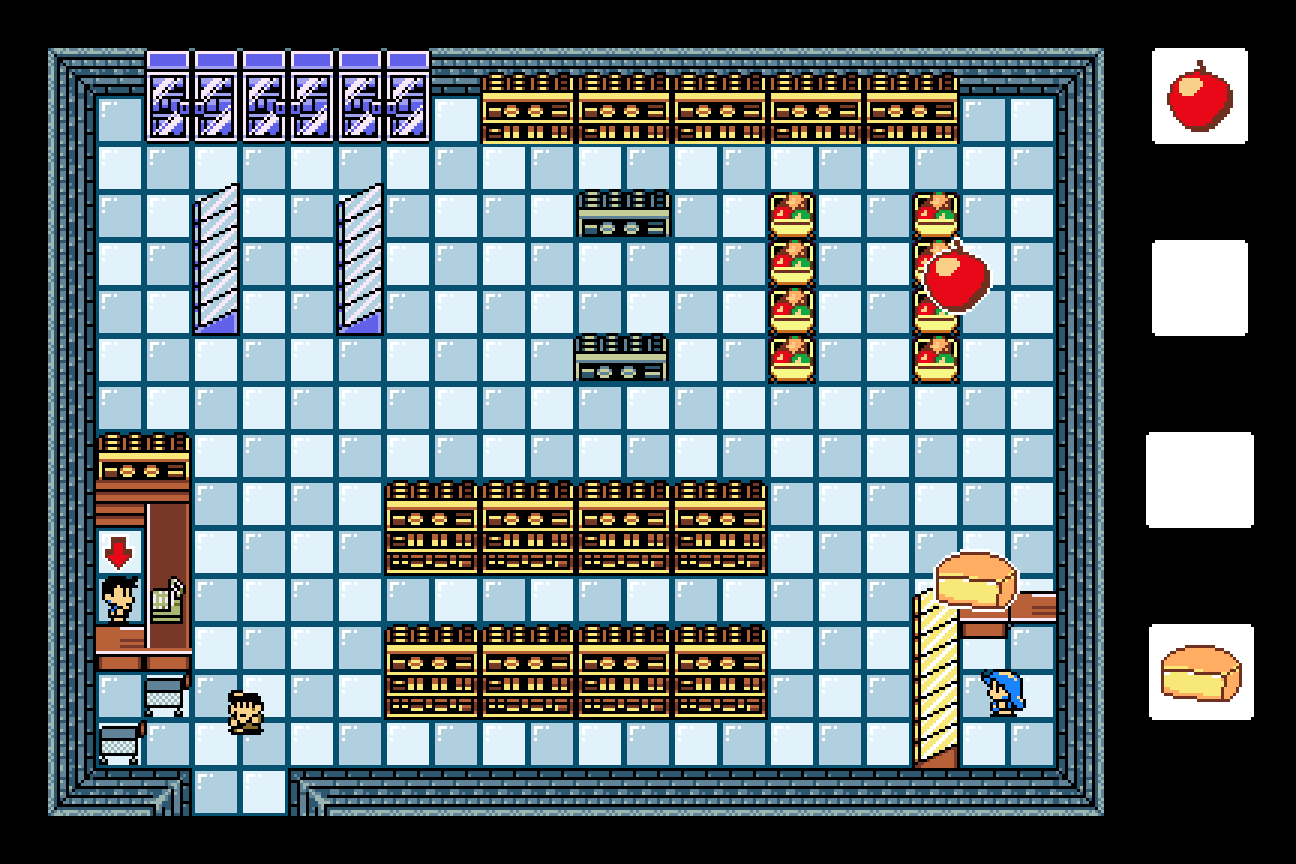
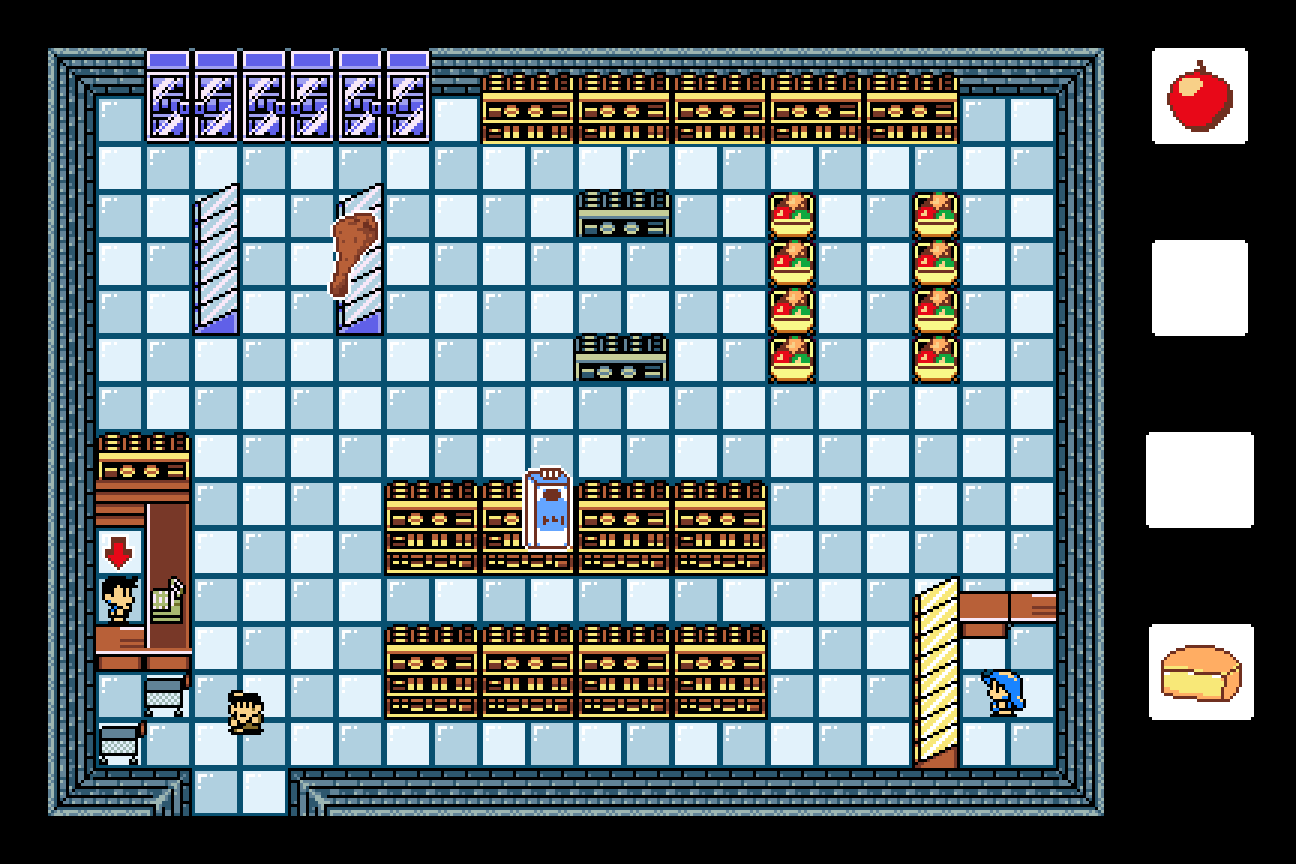
2producten

diff --git a/de game/code/producten2/2melkenvlees.html b/de game/code/producten2/2melkenvlees.html
@@ -1,0 +1,20 @@
+<!DOCTYPE html>
+<html>
+
+<head>
+
+</head>
+
+<body>
+
+<center> <img class ="center" src=../../mappen/producten2/2melkenvlees.png width="1296" height="864" alt="soepblik" usemap="#winkelbegin"> </center>
+
+<map name="winkelbegin">
+  <area shape="rect" coords="902,232,996,324" alt="appel" href="../../mappen/producten3/3appelenmelkenvlees.png">
+  <area shape="rect" coords="928,542,1024,614" alt="brood" href="../../mappen/producten3/3melkenenvleesenbrood.png">
+  <area shape="rect" coords="88,522,184,652" alt="kassa" href="../../mappen/algemeen/winkelbegin.png">
+</map>
+
+</body>
+
+</html>

diff --git a/de game/code/producten2/2vleesenbrood.html b/de game/code/producten2/2vleesenbrood.html
@@ -1,0 +1,20 @@
+<!DOCTYPE html>
+<html>
+
+<head>
+
+</head>
+
+<body>
+
+<center> <img class ="center" src=../../mappen/producten2/2vleesenbrood.png width="1296" height="864" alt="soepblik" usemap="#winkelbegin"> </center>
+
+<map name="winkelbegin">
+  <area shape="rect" coords="902,232,996,324" alt="appel" href="../../mappen/producten3/3appelenvleesenbrood.png">
+  <area shape="rect" coords="500,466,578,554" alt="melk" href="../../mappen/producten3/3melkenenvleesenbrood.png">
+  <area shape="rect" coords="88,522,184,652" alt="kassa" href="../../mappen/algemeen/winkelbegin.png">
+</map>
+
+</body>
+
+</html>

diff --git a/de game/code/producten2/2appelenvlees.html b/de game/code/producten2/2appelenvlees.html
@@ -1,0 +1,20 @@
+<!DOCTYPE html>
+<html>
+
+<head>
+
+</head>
+
+<body>
+
+<center> <img class ="center" src=../../mappen/producten2/2appelenvlees.png width="1296" height="864" alt="soepblik" usemap="#winkelbegin"> </center>
+
+<map name="winkelbegin">
+  <area shape="rect" coords="500,466,578,554" alt="melk" href="../../mappen/producten3/3appelenmelkenvlees.png">
+  <area shape="rect" coords="928,542,1024,614" alt="brood" href="../../mappen/producten3/3appelenvleesenbrood.png">
+  <area shape="rect" coords="88,522,184,652" alt="kassa" href="../../mappen/algemeen/winkelbegin.png">
+</map>
+
+</body>
+
+</html>

diff --git a/de game/code/producten2/2melkenbrood.html b/de game/code/producten2/2melkenbrood.html
@@ -1,0 +1,20 @@
+<!DOCTYPE html>
+<html>
+
+<head>
+
+</head>
+
+<body>
+
+<center> <img class ="center" src=../../mappen/producten2/2melkenbrood.png width="1296" height="864" alt="soepblik" usemap="#winkelbegin"> </center>
+
+<map name="winkelbegin">
+  <area shape="rect" coords="322,210,374,300" alt="vlees" href="../../mappen/producten3/3melkenenvleesenbrood.png">
+  <area shape="rect" coords="902,232,996,324" alt="appel" href="../../mappen/producten3/3appelenmelkenbrood.png">
+  <area shape="rect" coords="88,522,184,652" alt="kassa" href="../../mappen/algemeen/winkelbegin.png">
+</map>
+
+</body>
+
+</html>

diff --git a/de game/code/producten2/2appelenmelk.html b/de game/code/producten2/2appelenmelk.html
@@ -1,0 +1,20 @@
+<!DOCTYPE html>
+<html>
+
+<head>
+
+</head>
+
+<body>
+
+<center> <img class ="center" src=../../mappen/producten2/2appelenmelk.png width="1296" height="864" alt="soepblik" usemap="#winkelbegin"> </center>
+
+<map name="winkelbegin">
+  <area shape="rect" coords="322,210,374,300" alt="vlees" href="../../mappen/producten3/3appelenmelkenvlees.png">
+  <area shape="rect" coords="928,542,1024,614" alt="brood" href="../../mappen/producten3/3appelenmelkenbrood.png">
+  <area shape="rect" coords="88,522,184,652" alt="kassa" href="../../mappen/algemeen/winkelbegin.png">
+</map>
+
+</body>
+
+</html>

diff --git a/de game/code/producten2/2appelenbrood.html b/de game/code/producten2/2appelenbrood.html
@@ -1,0 +1,20 @@
+<!DOCTYPE html>
+<html>
+
+<head>
+
+</head>
+
+<body>
+
+<center> <img class ="center" src=../../mappen/producten2/2appelenbrood.png width="1296" height="864" alt="soepblik" usemap="#winkelbegin"> </center>
+
+<map name="winkelbegin">
+  <area shape="rect" coords="322,210,374,300" alt="vlees" href="../../mappen/producten3/3appelenmelkenvlees.png">
+  <area shape="rect" coords="500,466,578,554" alt="melk" href="../../mappen/producten3/3appelenmelkenbrood.png">
+  <area shape="rect" coords="88,522,184,652" alt="kassa" href="../../mappen/algemeen/winkelbegin.png">
+</map>
+
+</body>
+
+</html>
